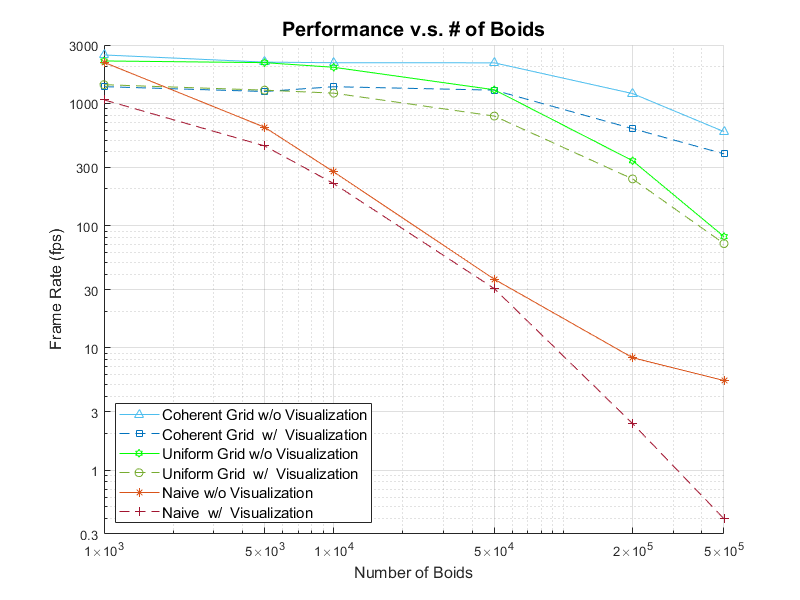
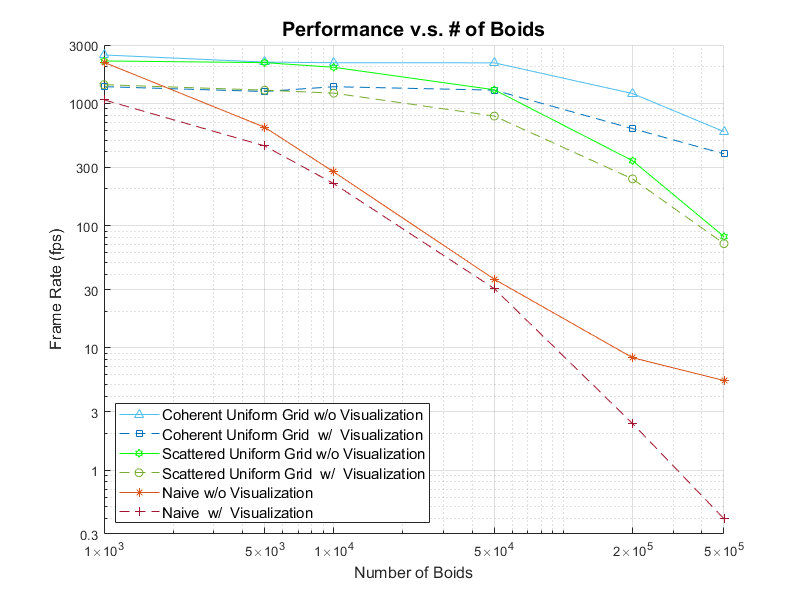
Update README.md and figures

Changed region(s): [[0.1875, 0.66, 0.5312, 0.81]]

diff --git a/README.md b/README.md
@@ -24,18 +24,19 @@ Benchmarking Process:
 ![](images/perf.png)
 
 
-| # of Boids            	| 1,000  	| 5,000  	| 10,000 	| 50,000 	| 200,000 	| 500,000 	|
-|---------------------- 	|-------:	|-------:	|-------:	|-------:	|--------:	|--------:	|
-| Naïve w/ Viz          	| 1067.1 	| 448.6  	| 220.5  	| 30.5   	| 2.4     	| 0.4     	|
-| Naïve w/o Viz         	| 2165.0 	| 637.2  	| 274.9  	| 36.4   	| 8.3     	| 5.4     	|
-| Uniform Grid w/ Viz   	| 1420.7 	| 1281.8 	| 1211.2 	| 786.6  	| 240.7   	| 71.2    	|
-| Uniform Grid w/o Viz  	| 2221.4 	| 2152.1 	| 1971.5 	| 1291.1 	| 339.2   	| 81.2    	|
-| Coherent Grid w/ Viz  	| 1368.9 	| 1249.5 	| 1367.8 	| 1281.7 	| 620.6   	| 386.2   	|
-| Coherent Grid w/o Viz 	| 2487.0 	| 2173.5 	| 2148.5 	| 2144.1 	| 1202.0  	| 586.5   	|
+| # of Boids                  	| 1,000  	| 5,000  	| 10,000 	| 50,000 	| 200,000 	| 500,000 	|
+|-----------------------------	|-------:	|-------:	|-------:	|-------:	|--------:	|--------:	|
+| Naïve w/ Viz                 	| 1067.1 	| 448.6  	| 220.5  	| 30.5   	| 2.4     	| 0.4     	|
+| Naïve w/o Viz         	      | 2165.0 	| 637.2  	| 274.9  	| 36.4   	| 8.3     	| 5.4     	|
+| Scattered Uniform Grid w/ Viz | 1420.7 	| 1281.8 	| 1211.2 	| 786.6  	| 240.7   	| 71.2    	|
+| Scattered Uniform Grid w/o Viz| 2221.4 	| 2152.1 	| 1971.5 	| 1291.1 	| 339.2   	| 81.2    	|
+| Coherent Uniform Grid w/ Viz  | 1368.9 	| 1249.5 	| 1367.8 	| 1281.7 	| 620.6   	| 386.2   	|
+| Coherent Uniform Grid w/o Viz | 2487.0 	| 2173.5 	| 2148.5 	| 2144.1 	| 1202.0  	| 586.5   	|
 
 From the data above, we can conclude that:
-- **Visualization reduces performance**: For the Uniform/Coherent Grid implementations, enabling visualization results in an average frame rate reduction of approximately 40%. For the Naive implementation, the impact is more variable, with greater fluctuations in frame rates.
-- 
+- **Visualization reduces performance**: For the Scattered/Coherent Uniform Grid implementations, enabling visualization results in an average frame rate reduction of approximately 40%. For the Naive implementation, the impact is more variable, with greater fluctuations in frame rates.
+- **Coherent Uniform Grid has the best performance**: Coherent Uniform Grid achieved the highest overall FPS because of its optimized memory access strategy.
+
 More analysis are in the *Answers* part.
 
 ### Performance v.s. Blocksize
@@ -56,8 +57,8 @@ The benchmarking in this section is performed ***without visualization***.
 ### For each implementation, how does changing the number of boids affect performance? Why do you think this is?
 
 - **Naive Implementation**: As the number of boids increases, performance drops drastically, especially with visualization. For example, performance drops from 1,067.1 (1,000 boids) to 0.4 (500,000 boids) with visualization. This is because the time complexity of the naive implementation is $O(N^2)$, each boid needs to check all the other boids. As the number of boids increases, the number of interactions grows quadratically, heavily impacting performance.
-- **Uniform Grid Implementation**: The Uniform Grid approach shows relatively stable performance with fewer boids, but the performance starts dropping significantly beyond 50,000 boids, especially with visualization. This algorithm spatially partitions the boids into grids, which reduces the number of operations needed. However, as the number of boids grows, memory overhead increases, leading to slower performance at higher boid counts.
-- **Coherent Grid Implementation**: The Coherent Grid maintains the most stable performance as boid counts increase, showing only a gradual decline, even with visualization. The Coherent Grid improves data locality and reduces redundant reads from the slow global memory, making the algorithm more scalable and less sensitive to large numbers of boids.
+- **Scattered Uniform Grid Implementation**: The Scattered Uniform Grid approach shows relatively stable performance with fewer boids, but the performance starts dropping significantly beyond 50,000 boids, especially with visualization. This algorithm spatially partitions the boids into grids, which reduces the number of operations needed. However, as the number of boids grows, memory overhead increases, leading to slower performance at higher boid counts.
+- **Coherent Uniform Grid Implementation**: The Coherent Uniform Grid maintains the most stable performance as boid counts increase, showing only a gradual decline, even with visualization. The Coherent Grid improves data locality and reduces redundant reads from the slow global memory, making the algorithm more scalable and less sensitive to large numbers of boids.
   
 ### For each implementation, how does changing the block count and block size affect performance? Why do you think this is?
 
